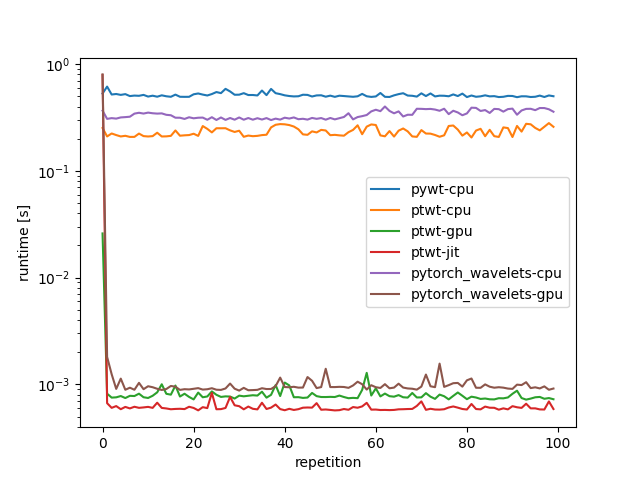
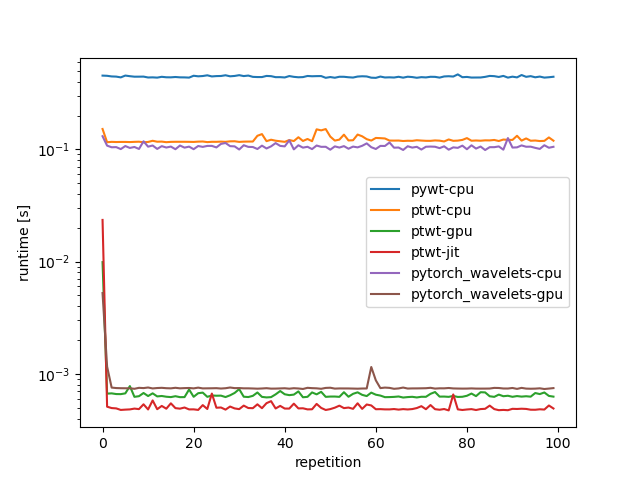
readme update.

diff --git a/examples/speed_tests/readme.md b/examples/speed_tests/readme.md
@@ -2,12 +2,21 @@
 
 To run the speed tests install [pywt](https://pywavelets.readthedocs.io/en/latest/install.html)
 and [pytorch-wavelets](https://github.com/fbcotter/pytorch_wavelets).
+The numbers below were measured using an NVIDIA TITAN Xp graphics card and an Intel(R) Core(TM) i9-10850K CPU @ 3.60GHz.
 
 To execute the speed tests for the single-dimensional case run:
 ```bash
 python timeitconv_1d.py
 ```
-it produces the plot below:
+it produces the output and plot below:
+
+```bash
+1d-pywt-cpu:0.24683 +- 0.00607
+1d-ptwt-cpu:0.20142 +- 0.01648
+1d-ptwt-cpu-jit:0.20184 +- 0.01042
+1d-ptwt-gpu:0.00093 +- 0.00125
+1d-ptwt-jit:0.00078 +- 0.00198
+```
 
 ![1d-speed](figs/dim1.png)
 
@@ -15,6 +24,16 @@ For the two-2d fast wavelet decomposition case run:
 ```bash
 python timeitconv_2d.py
 ```
+Result:
+```bash
+2d-pywt-cpu:0.44354 +- 0.00654
+2d-pytorch_wavelets-cpu:0.10569 +- 0.00506
+2d-pytorch_wavelets-gpu:0.00080 +- 0.00045
+2d-ptwt-cpu:0.12146 +- 0.00741
+2d-ptwt-gpu:0.00074 +- 0.00092
+2d-ptwt-jit:0.00073 +- 0.00229
+```
+
 
 ![2d-speed](figs/dim2.png)
 
@@ -23,5 +42,12 @@ Finally use
 python timeitconv_3d.py
 ```
 for the three dimensional case. It should produce something like the output below:
+
+```bash
+3d-pywt-cpu:0.72061 +- 0.01056
+3d-ptwt-cpu:0.24678 +- 0.01168
+3d-ptwt-gpu:0.00081 +- 0.00066
+3d-ptwt-jit:0.00075 +- 0.00234
+```
 
 ![3d-speed](figs/dim3.png)

diff --git a/README.rst b/README.rst
@@ -116,6 +116,9 @@ To test an example run:
   np.max(np.abs(face - reconstruction.squeeze(1).numpy()))
 
 
+**Speed tests**
+Speed tests comparing our tools to related libraries are available at (examples/speed_tests/)[https://github.com/v0lta/PyTorch-Wavelet-Toolbox/tree/main/examples/network_compression/].
+
 
 **Boundary Wavelets with Sparse-Matrices**
 
